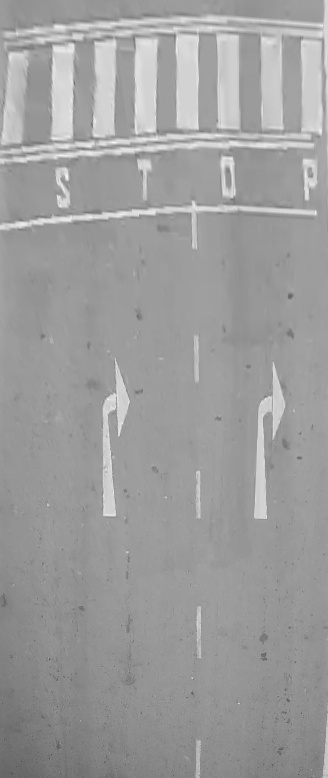
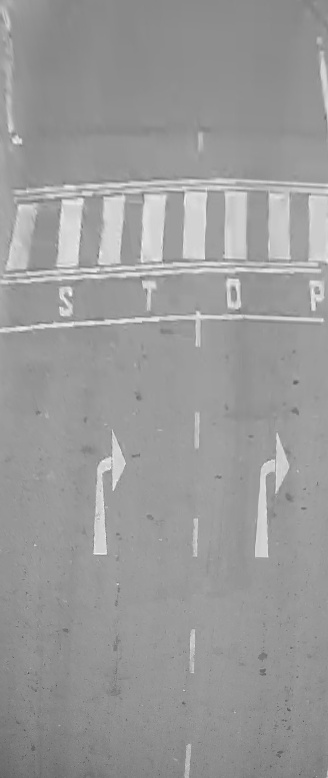
play given video file

diff --git a/1_subtask.cpp b/1_subtask.cpp
@@ -2,7 +2,7 @@
 #include <opencv2/imgproc/imgproc.hpp>
 #include <opencv2/highgui.hpp>
 #include <iostream>
-// #include <X11/Xlib.h>                    // UNCOMMENT TO RESIZE WINDOW 
+#include <X11/Xlib.h>                    // UNCOMMENT TO RESIZE WINDOW 
 
 using namespace cv;
 using namespace std;
@@ -24,12 +24,12 @@ void mouseClick(int event, int x, int y, int flags, void* userdata){
     }
 }
 
-/*void getScreenResolution(){               // UNCOMMENT TO RESIZE WINDOW 
+void getScreenResolution(){               // UNCOMMENT TO RESIZE WINDOW 
 	Display* disp = XOpenDisplay(NULL);
 	Screen* screen = DefaultScreenOfDisplay(disp);
 	SCREEN_WIDTH = screen->width;
 	SCREEN_HEIGHT = screen->height;
-}*/
+}
 
  
 void createWindow(string WindowName, Mat &img){
@@ -37,7 +37,7 @@ void createWindow(string WindowName, Mat &img){
 	
 	namedWindow(WindowName, WINDOW_KEEPRATIO);
 	
-	/*if(img.size[1]>SCREEN_WIDTH || img.size[0]>SCREEN_HEIGHT){		// UNCOMMENT TO RESIZE WINDOW
+	if(img.size[1]>SCREEN_WIDTH || img.size[0]>SCREEN_HEIGHT){		// UNCOMMENT TO RESIZE WINDOW
 		double scale_width= (double)(SCREEN_WIDTH)/img.size[1];
 		double scale_height= (double)(SCREEN_HEIGHT)/img.size[0];
 		double scale=min(scale_width,scale_height);
@@ -46,13 +46,55 @@ void createWindow(string WindowName, Mat &img){
 		int window_height=scale*img.size[0];
 		
 		resizeWindow(WindowName,window_width,window_height);
-	}*/
+	}
 }
+
+
+
 
 int main( int argc, char** argv)
 {	
+	
 	// Initialize SCREEN_WIDTH and SCREEN_HEIGHT
-    // getScreenResolution();                       // UNCOMMENT TO RESIZE WINDOW
+    getScreenResolution();                       // UNCOMMENT TO RESIZE WINDOW
+	
+	
+	VideoCapture cap("trafficvideo.mp4");
+	
+	if(!cap.isOpened()){
+		cout<<"Error opening video file \n";
+		return -1;
+	}
+	
+	while(1){
+		Mat frame;
+		cap>>frame;
+		
+		if(frame.empty()){
+			break;
+		}
+		
+		
+		createWindow("Video Frame", frame);
+		
+		imshow("Video Frame",frame);
+		
+		// esc key pressed
+		char ch=(char)waitKey(25);
+		if(ch==27){
+			break;
+		}
+	}
+	
+	cap.release();
+	
+	destroyAllWindows();
+	
+	return 0;
+
+
+	
+    /*
     
     if (argc < 2){
     	cout<<"Input filename required in the command line arguments! \n";
@@ -123,5 +165,6 @@ int main( int argc, char** argv)
 	
 	destroyAllWindows();
 
-    return 0;
+    return 0;*/
+    
 }
